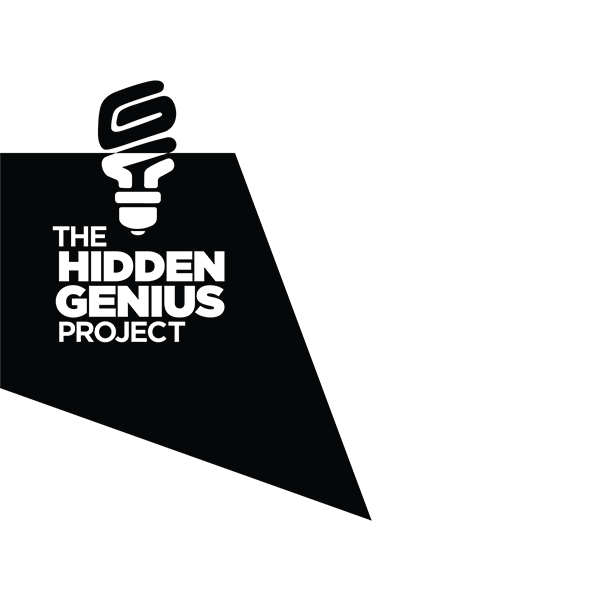
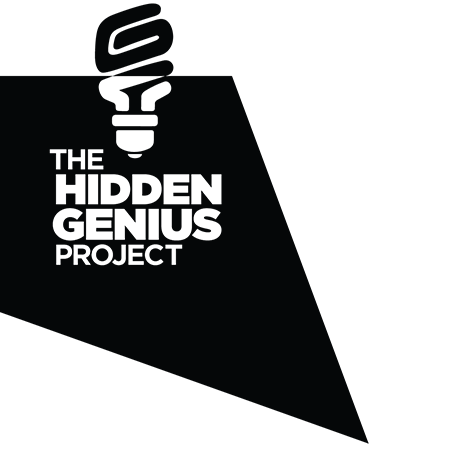
Smaller visuals

Changed region(s): [[0.0, 0.0, 0.84, 0.9956]]

diff --git a/src/components/pathway-visualization/training_partner_card.js b/src/components/pathway-visualization/training_partner_card.js
@@ -6,14 +6,22 @@ import Typography from 'material-ui/Typography';
 
 const styles = {
   card: {
-    maxWidth: 200,
-    maxHeight: 320,
+    maxWidth: 150,
+    maxHeight: 240,
     borderRadius: 5,
     cursor: 'pointer'
   },
   media: {
-    height: 200,
-    width: 200
+    height: 150,
+    width: 150,
+    backgroundPosition: 'center center',
+    backgroundSize: 'contain'
+  },
+  content: {
+    paddingTop: 10,
+    //whiteSpace: 'nowrap',
+    //overflow: 'hidden',
+    //textOverflow: 'ellipsis'
   }
 };
 
@@ -27,12 +35,9 @@ function TrainingPartnerCard(props) {
           image={partner.imgPath}
           title="Training Partner"
         />
-        <CardContent>
-          <Typography gutterBottom variant="title" align="left">
+        <CardContent className={classes.content}>
+          <Typography gutterBottom variant="title" align="center">
             {partner.name}
-          </Typography>
-          <Typography gutterBottom variant="body1" align="left">
-            {partner.info.cost}
           </Typography>
         </CardContent>
       </Card>
